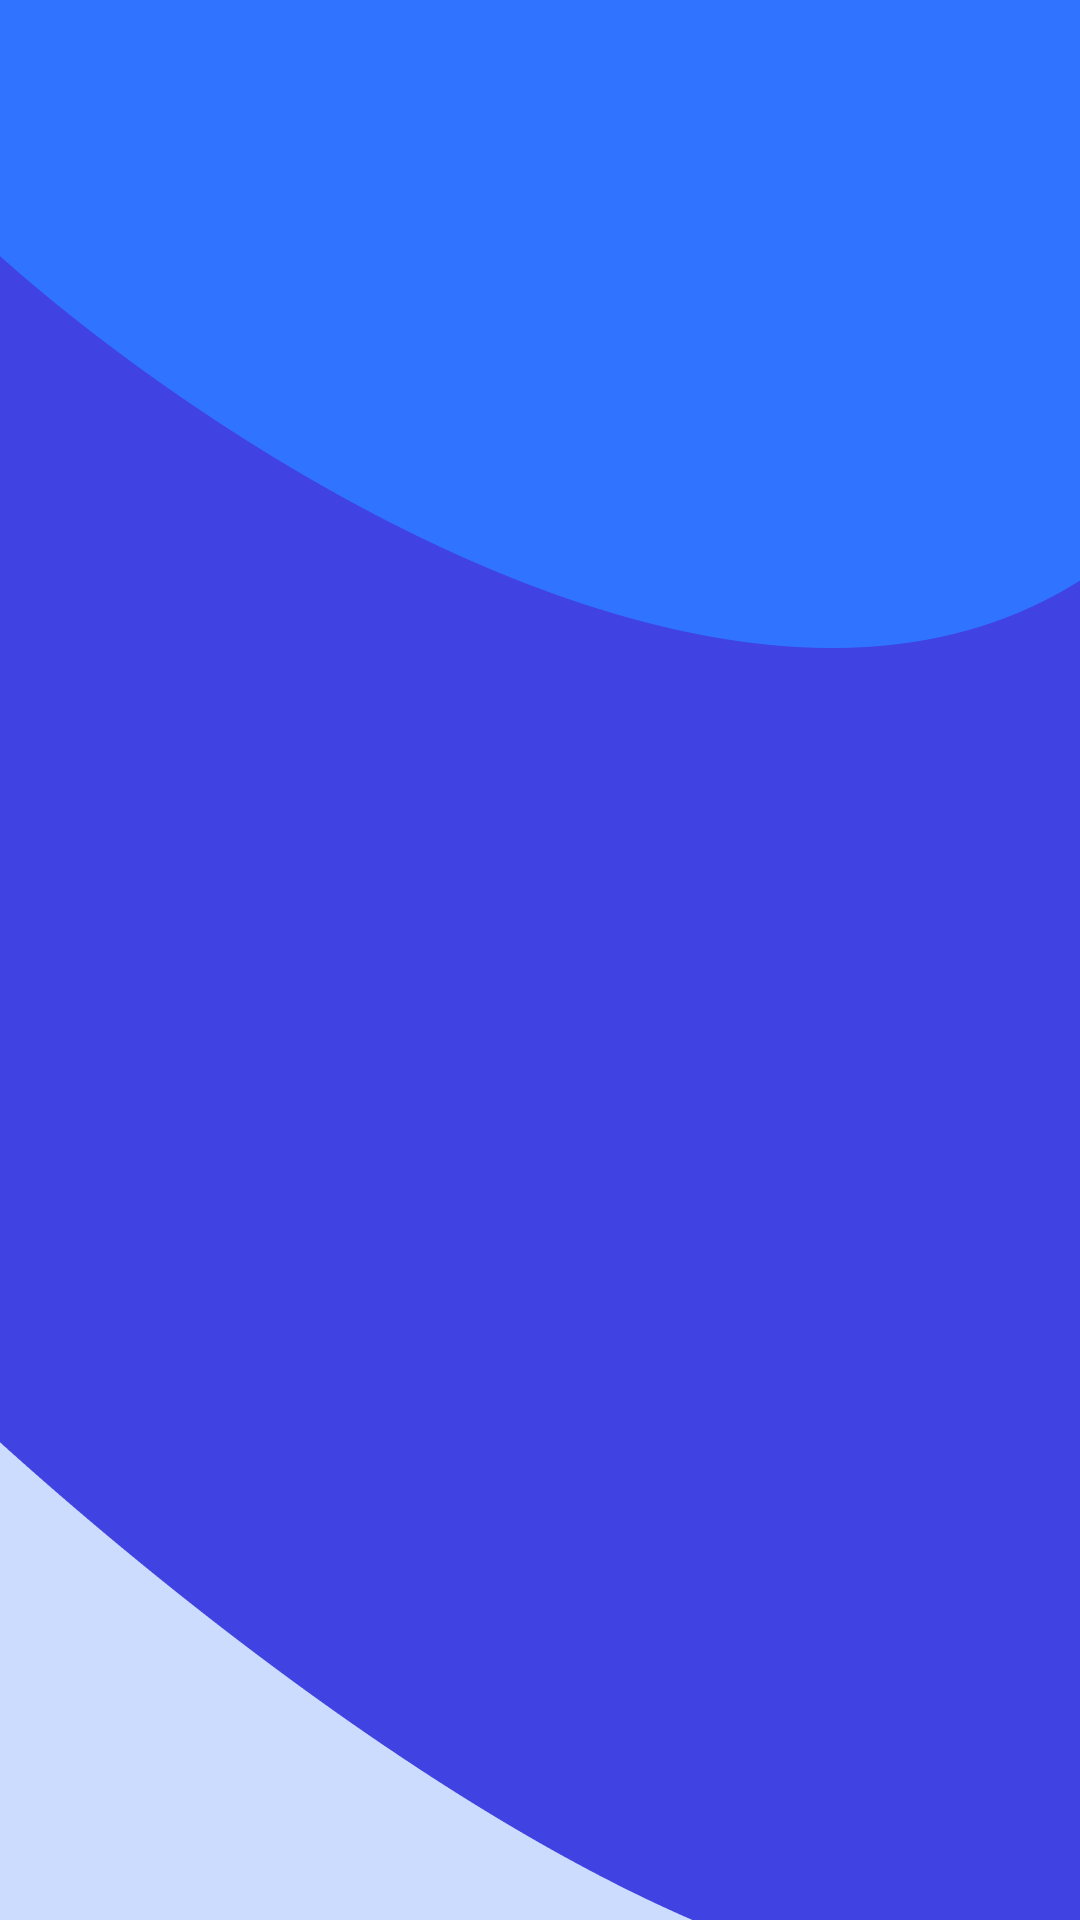
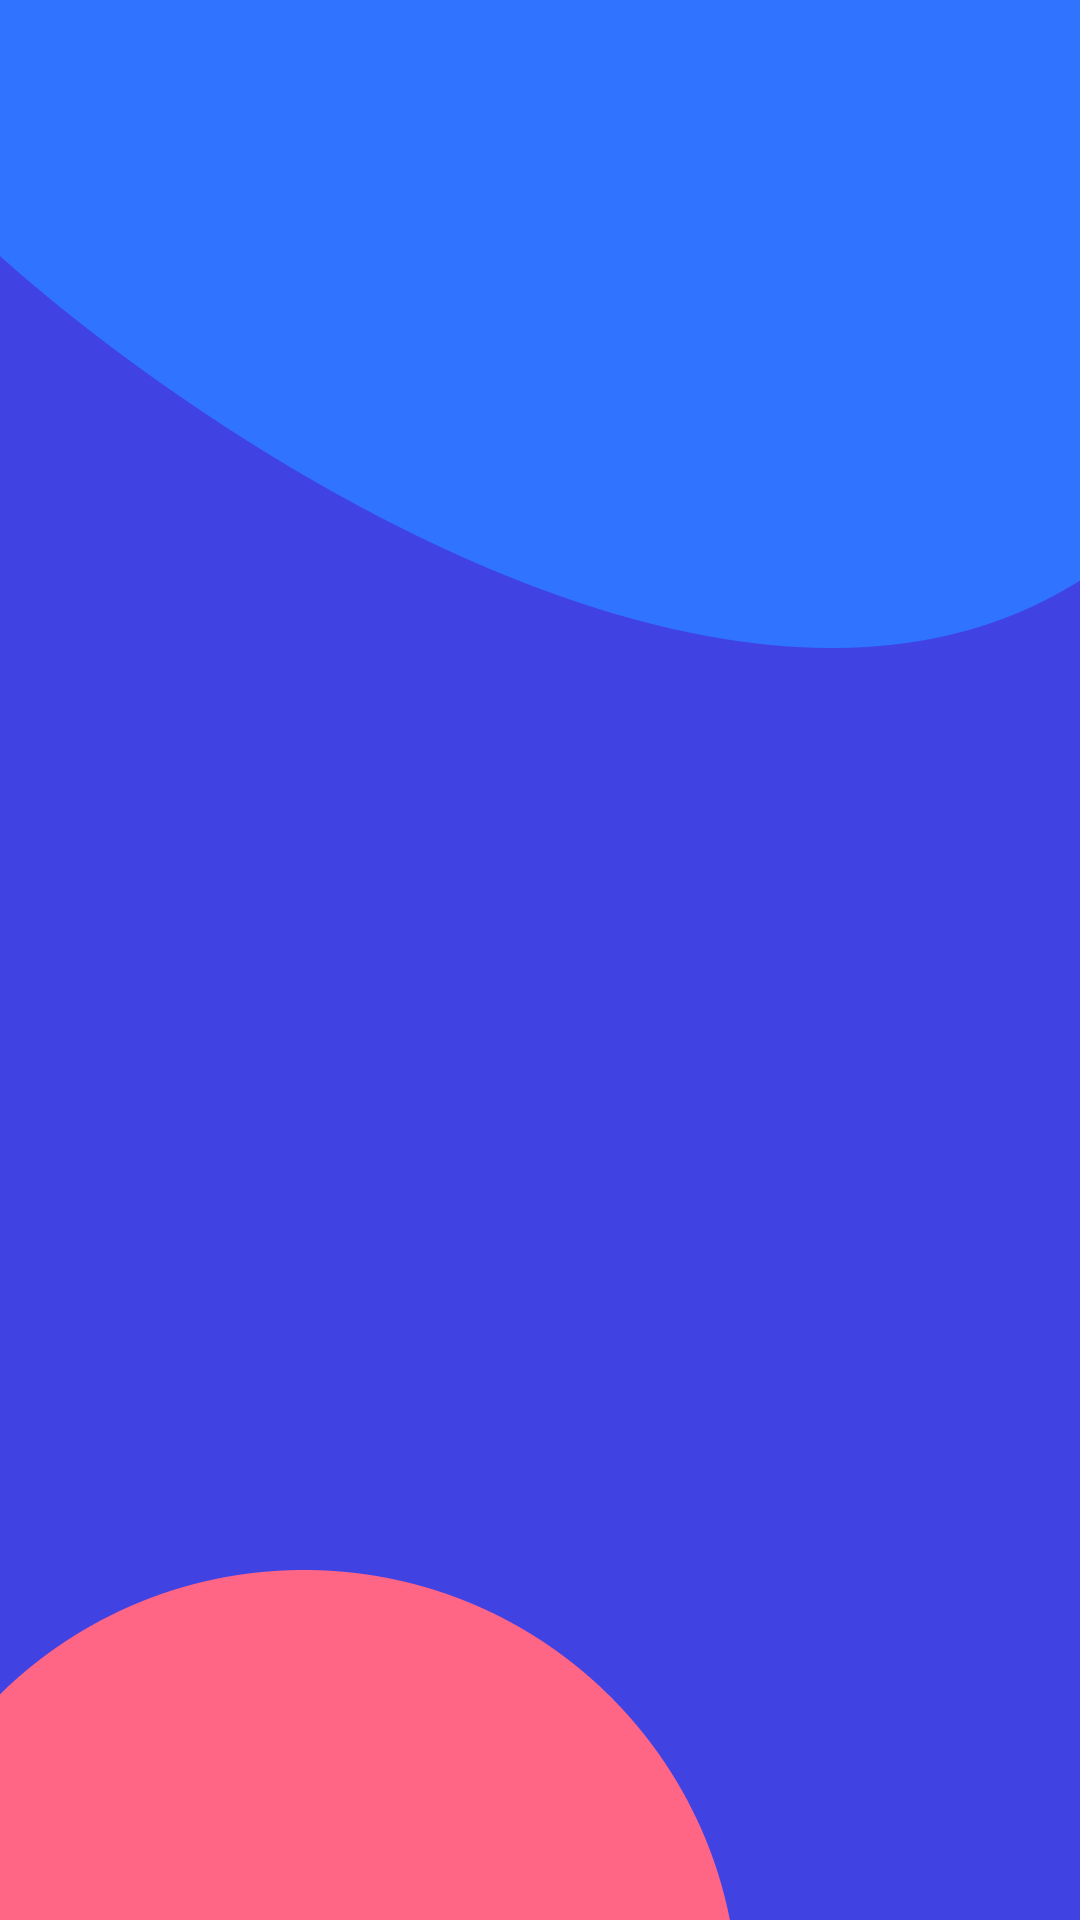
Rodrigo

Changed region(s): [[0.0, 0.75, 0.6722, 1.0]]

diff --git a/style.css b/style.css
@@ -88,42 +88,46 @@ header {
 }
 
 /* Section1 */
-
 .section1 {
     width: 100%;
     height: 100vh;
-    background-color: #3F3D56;
-    text-align: center;
-    padding-top: 20px;
 }
 .section1 h2 {
     color: #f0f0f4;
+    font-size: 24px;
     font-family: 'Raleway';
+    text-align: center;
+    margin-top: 25px;
+}
+.section1__bg img {
+    visibility: hidden;
+    display: none;
+}
+.section1__bg2 img {
+    width: 100%;
+    height: 100vh;
+    position: absolute;
+    background-size: cover;
+    z-index: -1;
 }
 .section1__content {
     display: flex;
     flex-direction: column;
-    justify-content: center;
-    align-items: center;
-    padding-top: 20px;
 }
 .section1__content a {
-    width: 55%;
-    height: 250px;
+    width: 200px;
+    height: 260px;
     background-color: #f0f0f4;
-    border-radius: 20px;
-    margin-top: 10px;
+    margin: 10px auto;
+    display: flex;
+    flex-direction: column;
+    justify-content: center;
+    align-items: center;
+    border-radius: 10px;
 }
-
-.caja img {
-    width: 85%;
-    padding-top: 10px;
+.section1__content a img {
+    width: 90%;
 }
-#dm img {
-    margin-left: 15px;
-}
-
-
 .section2 {
     width: 100%;
     height: 100vh;
@@ -409,48 +413,60 @@ footer {
         box-shadow: -10px 10px 0px #00000044;
     }
     /* Section 1 */
-    
+
     .section1 {
-        flex-direction: column;
         width: 100%;
         height: 100vh;
-        background: rgb(255,255,255);
-        background: linear-gradient(180deg, rgba(255,255,255,1) 0%, rgba(240,240,244,1) 100%);
     }
-    .section1 h2 {
-        text-align: center;
-        color: #3F3D56;
-        font-family: 'Raleway';
-        font-size: 40px;
-        margin-top: 5%;
+    .section1__bg img {
+        background-size: cover;
+        width: 100%;
+        height: 100vh;
+        position: absolute;
+        z-index: -1;
+        visibility: visible;
+        display: block;
     }
-    .section1__content  {
+    .section1__bg2 img {
+        display: none;
+        visibility: hidden;
+    }
+    .section1__content {
         display: flex;
         flex-direction: row;
         justify-content: center;
-        opacity: 0;
-        transition-property: opacity;
-        transition-duration: .8s;
+    }
+    .section1__content h2 {
+        position: absolute;
+        font-family: 'Raleway';
+        font-size: 44px;
+        color: #f0f0f4;
+        margin-top: 5%;
+    }
+
+    .section1__content a img {
+        width: 90%;
     }
     .section1__content a {
-        width: 346px;
-        height: 393px;
-        background-color: white;
-        border-radius: 30px;
-        text-align: center;
-        margin: 5% 5%;
-        box-shadow: -10px 10px 4px #00000044;
-        transition-property: box-shadow, transform;
-        transition-duration: .3s;
+        width: 300px;
+        height: 380px;
+        background-color: #f0f0f4;
+        margin: 0px 100px;
+        border-radius: 10px;
+        display: flex;
+        flex-direction: column;
+        margin-top: 15%;
+        justify-content: center;
+        align-items: center;
+        transition-property: transform, box-shadow;
+        transition-duration: .2s;
     }
-    #dm img {
-        margin-left: 15%;
-    }
-    .section1__content a:hover{
-        box-shadow: -15px 15px 1px #00000071;
+    .section1__content a:hover {
+        box-shadow: 0px 20px 20px #00000025;
         transform: translateY(-10px);
     }
 
+    
     .section2 {
         width: 100%;
         height: 100vh;

diff --git a/index.html b/index.html
@@ -38,18 +38,16 @@
             </div>
         </header>
         <section class="section1" id="servicios">
-                <h2>Nuestros Servicios</h2>
+            <div class="section1__bg">
+                <img src="./Images/Section1-bg.png" alt="">
+            </div>
+            <div class="section1__bg2">
+                <img src="./Images/servicios-mobile.png" alt="">
+            </div>
             <div class="section1__content">
-                <a href="./desarrollo-web.html">
-                    <div class="caja">
-                        <img src="./Images/Desarollo-web-bg.svg" alt="">
-                    </div>
-                </a>
-                <a href="./desarrollo-mobil.html">
-                    <div class="caja" id="dm">
-                        <img src="./Images/Desarrollo-mobil-bg.svg" alt="">
-                    </div>
-                </a>
+                <h2>Nuestros servicios</h2>
+                <a href="./desarrollo-web.html" class="desarollo-web"><img src="./Images/Desarollo-web-bg.svg" alt=""></a>
+                <a href="./desarrollo-mobil.html" class="desarrolllo-mobil"><img src="./Images/Desarrollo-mobil-bg.svg" alt=""></a>
             </div>
         </section>
         <section class="section2" id="Nosotros">

diff --git a/dw.css b/dw.css
@@ -233,7 +233,7 @@ html {
           font-size: 18px;
       }
       .section3__content .caja__texto {
-          margin-top: 7%;
+          margin-top: 2%;
       }
       .section3__content .caja__texto h2 {
           font-size: 24px;
